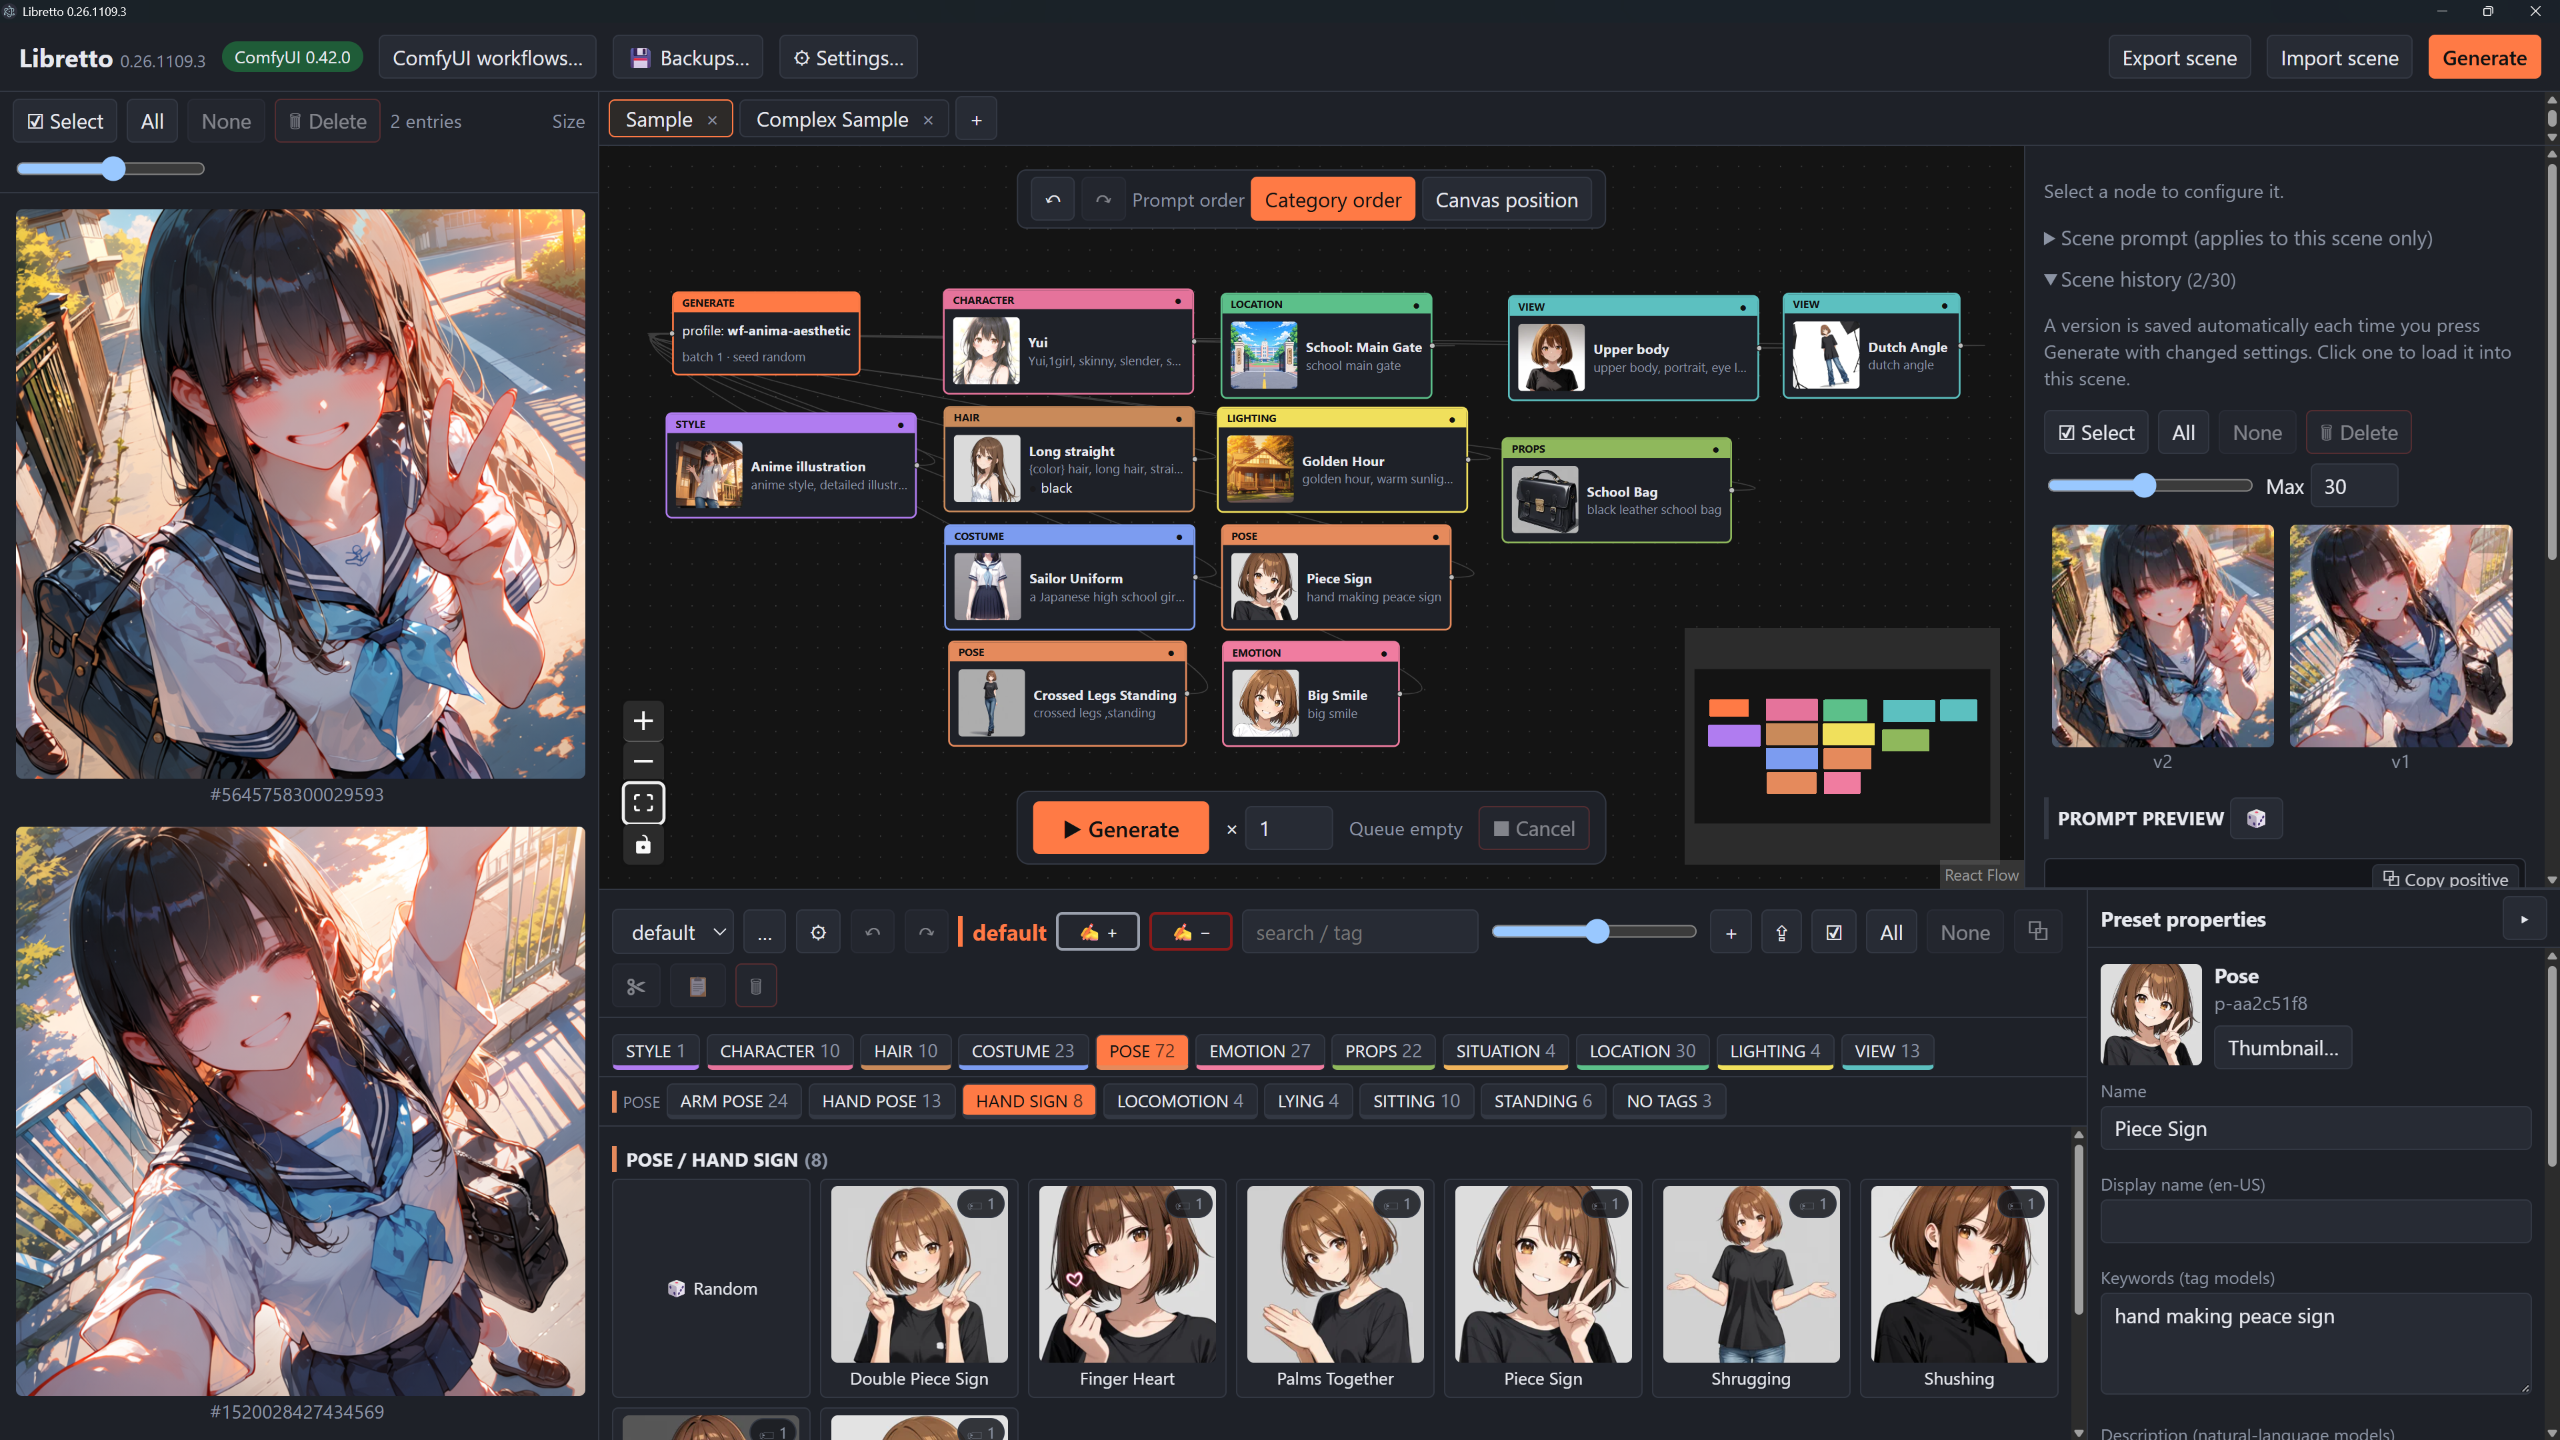
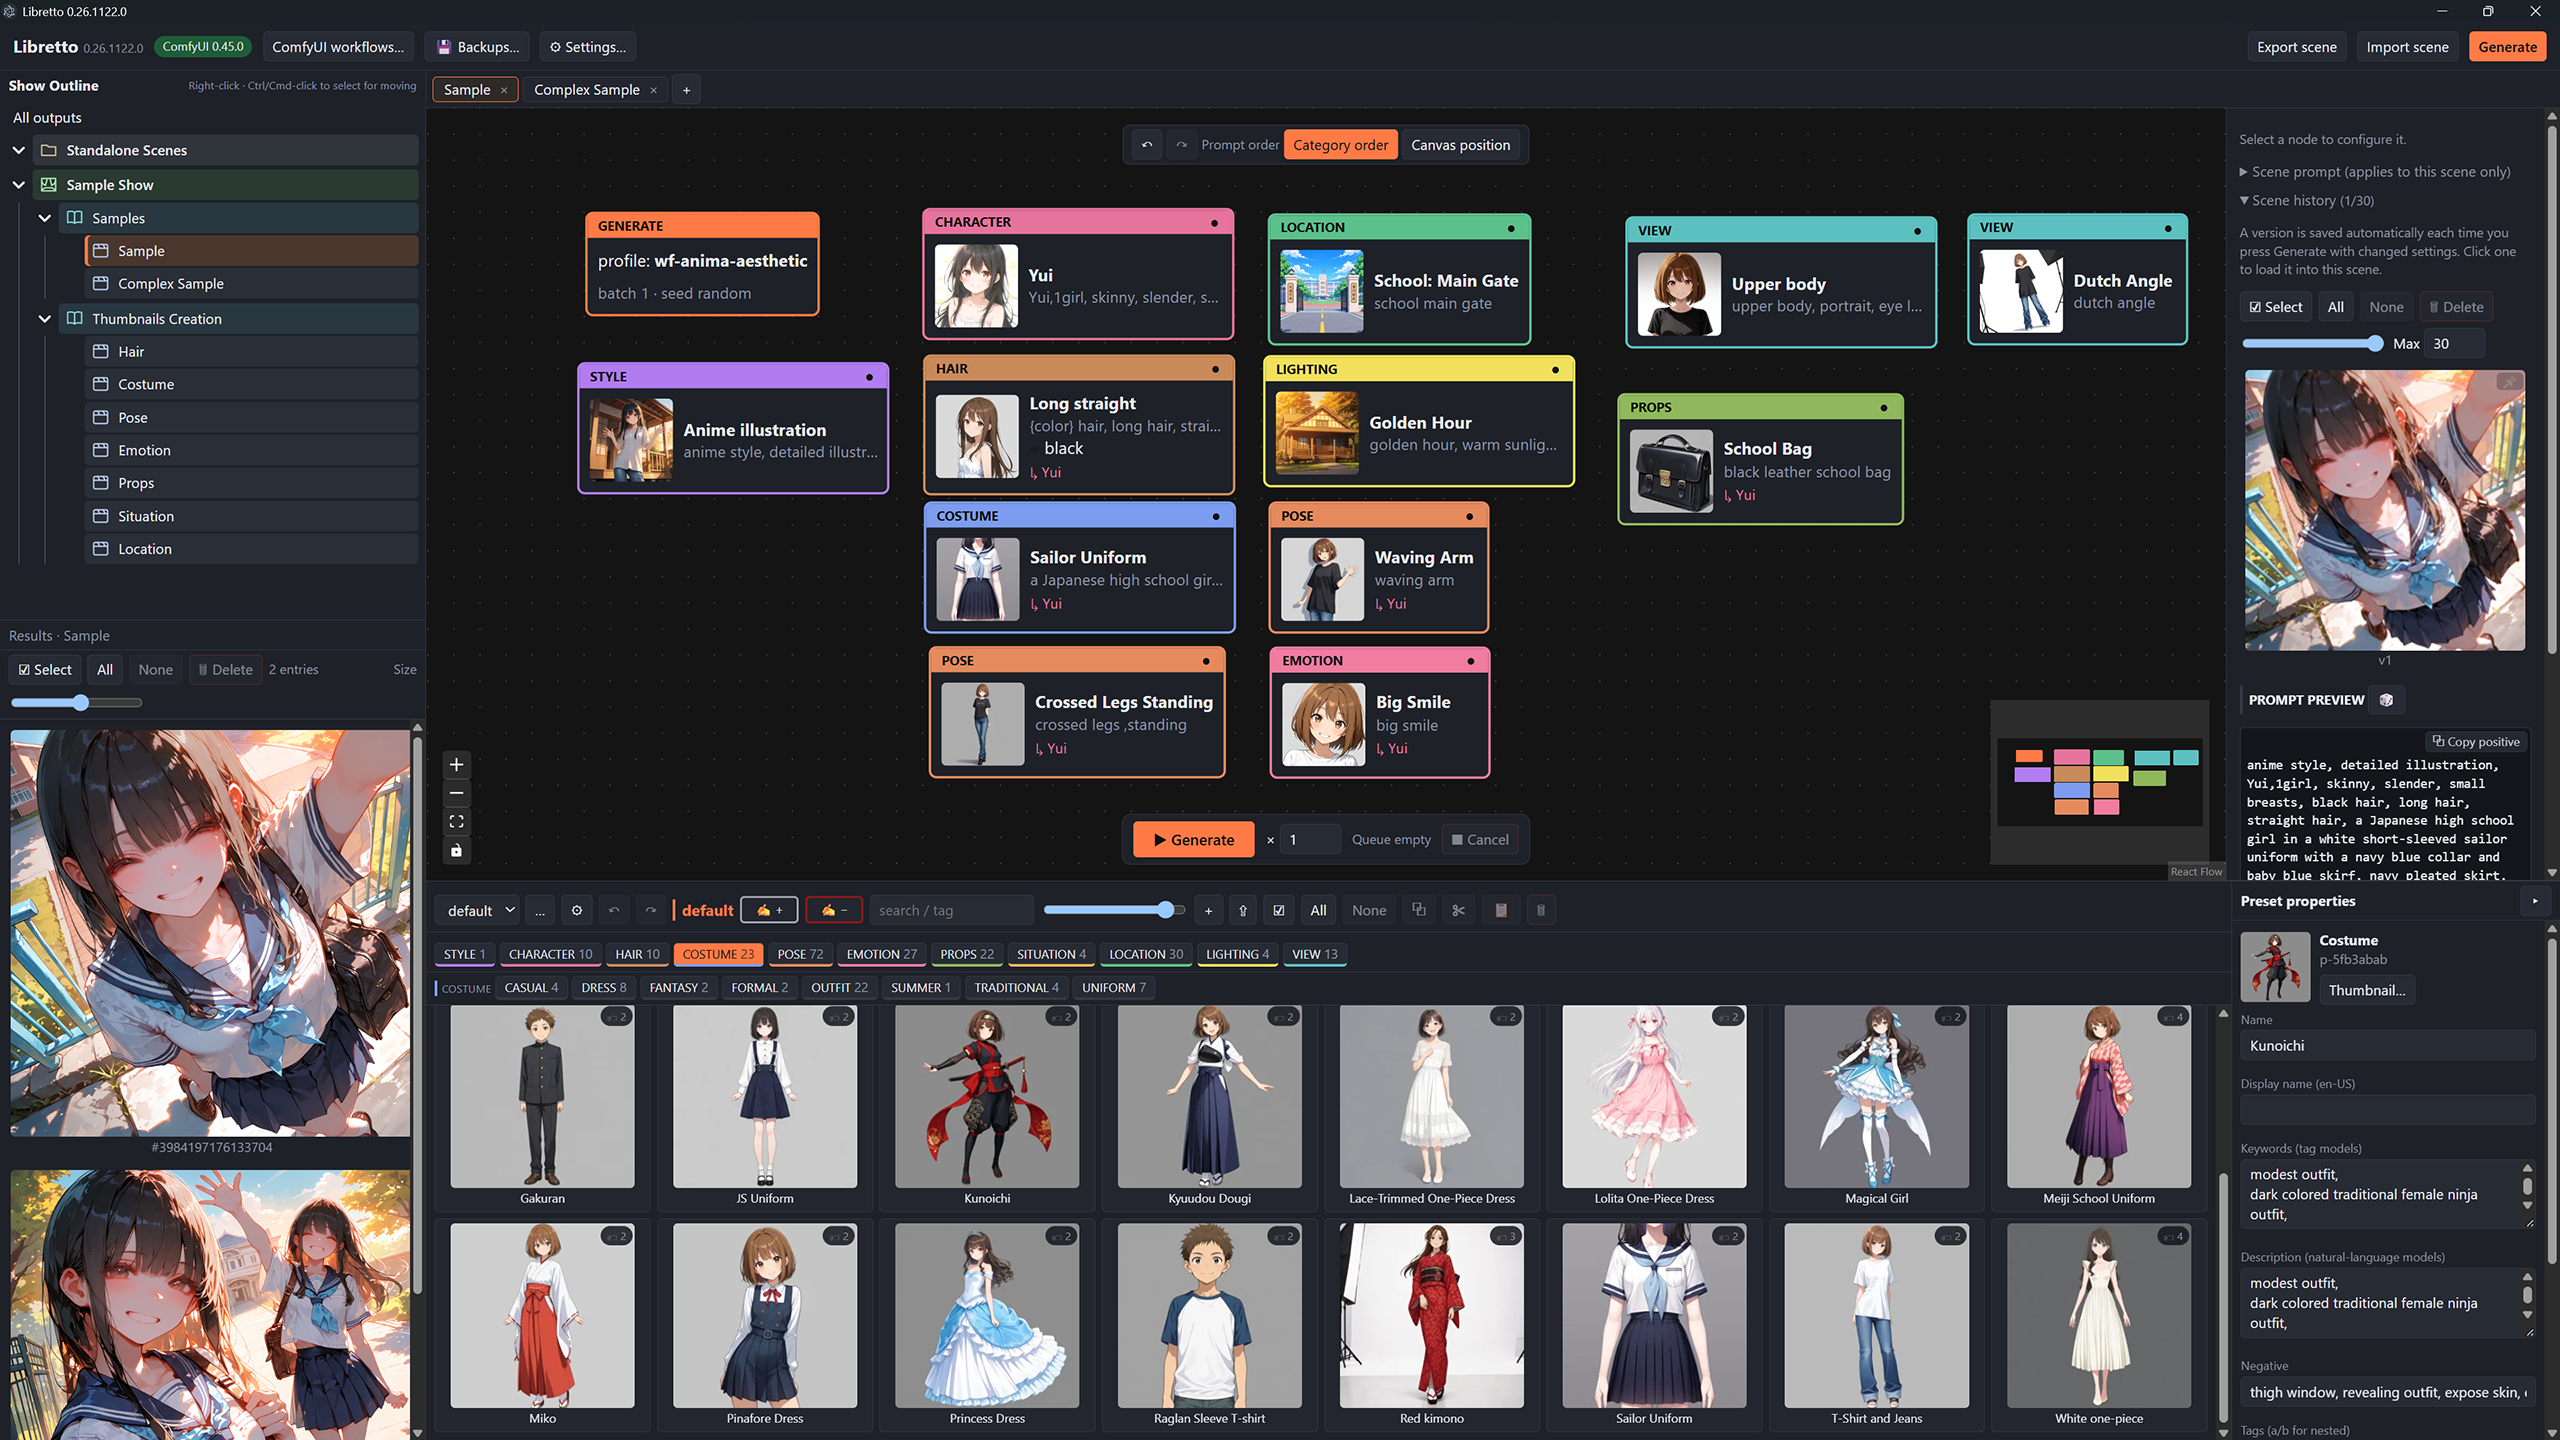
Update release links and workspace screenshot

diff --git a/README.md b/README.md
@@ -16,15 +16,15 @@ models and workflows.
 ## How to install
 
 Download a desktop package from the [latest release](https://github.com/Higeneko9/Libretto/releases/latest).
-The direct links below are for **v0.26.1111.2**.
+The direct links below are for **v0.26.1122.0**.
 You do not need to install Python or Node.js to use these packages.
 
 | Platform | Download | Installation |
 |---|---|---|
-| Windows x64 | [Windows installer (.exe)](https://github.com/Higeneko9/Libretto/releases/download/v0.26.1111.2/Libretto-0.26.1111-win-x64.exe) | Run the installer, then open Libretto from the Start menu. The installer is unsigned; if SmartScreen warns, choose **More info > Run anyway** after confirming you downloaded it from this repository. |
-| macOS Apple silicon | [macOS disk image (.dmg)](https://github.com/Higeneko9/Libretto/releases/download/v0.26.1111.2/Libretto-0.26.1111-mac-arm64.dmg) | Open the disk image and drag Libretto into Applications. The app is Developer ID signed and notarized. Allow Local Network access if connecting to ComfyUI on another machine. |
-| Debian / Ubuntu amd64 | [Debian package (.deb)](https://github.com/Higeneko9/Libretto/releases/download/v0.26.1111.2/Libretto-0.26.1111-linux-amd64.deb) | Install with `sudo apt install ./Libretto-0.26.1111-linux-amd64.deb`, then open Libretto from the app menu. |
-| Linux x86_64 | [AppImage](https://github.com/Higeneko9/Libretto/releases/download/v0.26.1111.2/Libretto-0.26.1111-linux-x86_64.AppImage) | Make the downloaded file executable and run it. Some distributions require `libfuse2`. |
+| Windows x64 | [Windows installer (.exe)](https://github.com/Higeneko9/Libretto/releases/download/v0.26.1122.0/Libretto-0.26.1122-win-x64.exe) | Run the installer, then open Libretto from the Start menu. The installer is unsigned; if SmartScreen warns, choose **More info > Run anyway** after confirming you downloaded it from this repository. |
+| macOS Apple silicon | [macOS disk image (.dmg)](https://github.com/Higeneko9/Libretto/releases/download/v0.26.1122.0/Libretto-0.26.1122-mac-arm64.dmg) | Open the disk image and drag Libretto into Applications. The app is Developer ID signed and notarized. Allow Local Network access if connecting to ComfyUI on another machine. |
+| Debian / Ubuntu amd64 | [Debian package (.deb)](https://github.com/Higeneko9/Libretto/releases/download/v0.26.1122.0/Libretto-0.26.1122-linux-amd64.deb) | Install with `sudo apt install ./Libretto-0.26.1122-linux-amd64.deb`, then open Libretto from the app menu. |
+| Linux x86_64 | [AppImage](https://github.com/Higeneko9/Libretto/releases/download/v0.26.1122.0/Libretto-0.26.1122-linux-x86_64.AppImage) | Make the downloaded file executable and run it. Some distributions require `libfuse2`. |
 
 Install and start [ComfyUI](https://github.com/Comfy-Org/ComfyUI) separately,
 with a working text-to-image workflow and the models it needs.
@@ -42,7 +42,7 @@ The Windows uninstaller asks whether to delete this data.
 
 ## How to use it
 
-[![Libretto workspace with the Results browser on the left, Graph editor in the center, Inspector on the right, and Library browser at the bottom. Click to watch the English introduction on YouTube.](docs/images/workspace.png)](https://youtu.be/jTv9STxC0xk)
+[![Libretto workspace with the Show Outline and Results browser on the left, Graph editor in the center, Inspector on the right, and Library browser at the bottom. Click to watch the English introduction on YouTube.](docs/images/workspace.png)](https://youtu.be/jTv9STxC0xk)
 
 **YouTube walkthrough:** [English introduction](https://youtu.be/jTv9STxC0xk)
 | [Japanese introduction](https://youtu.be/FM9a2HxqP0Q)
